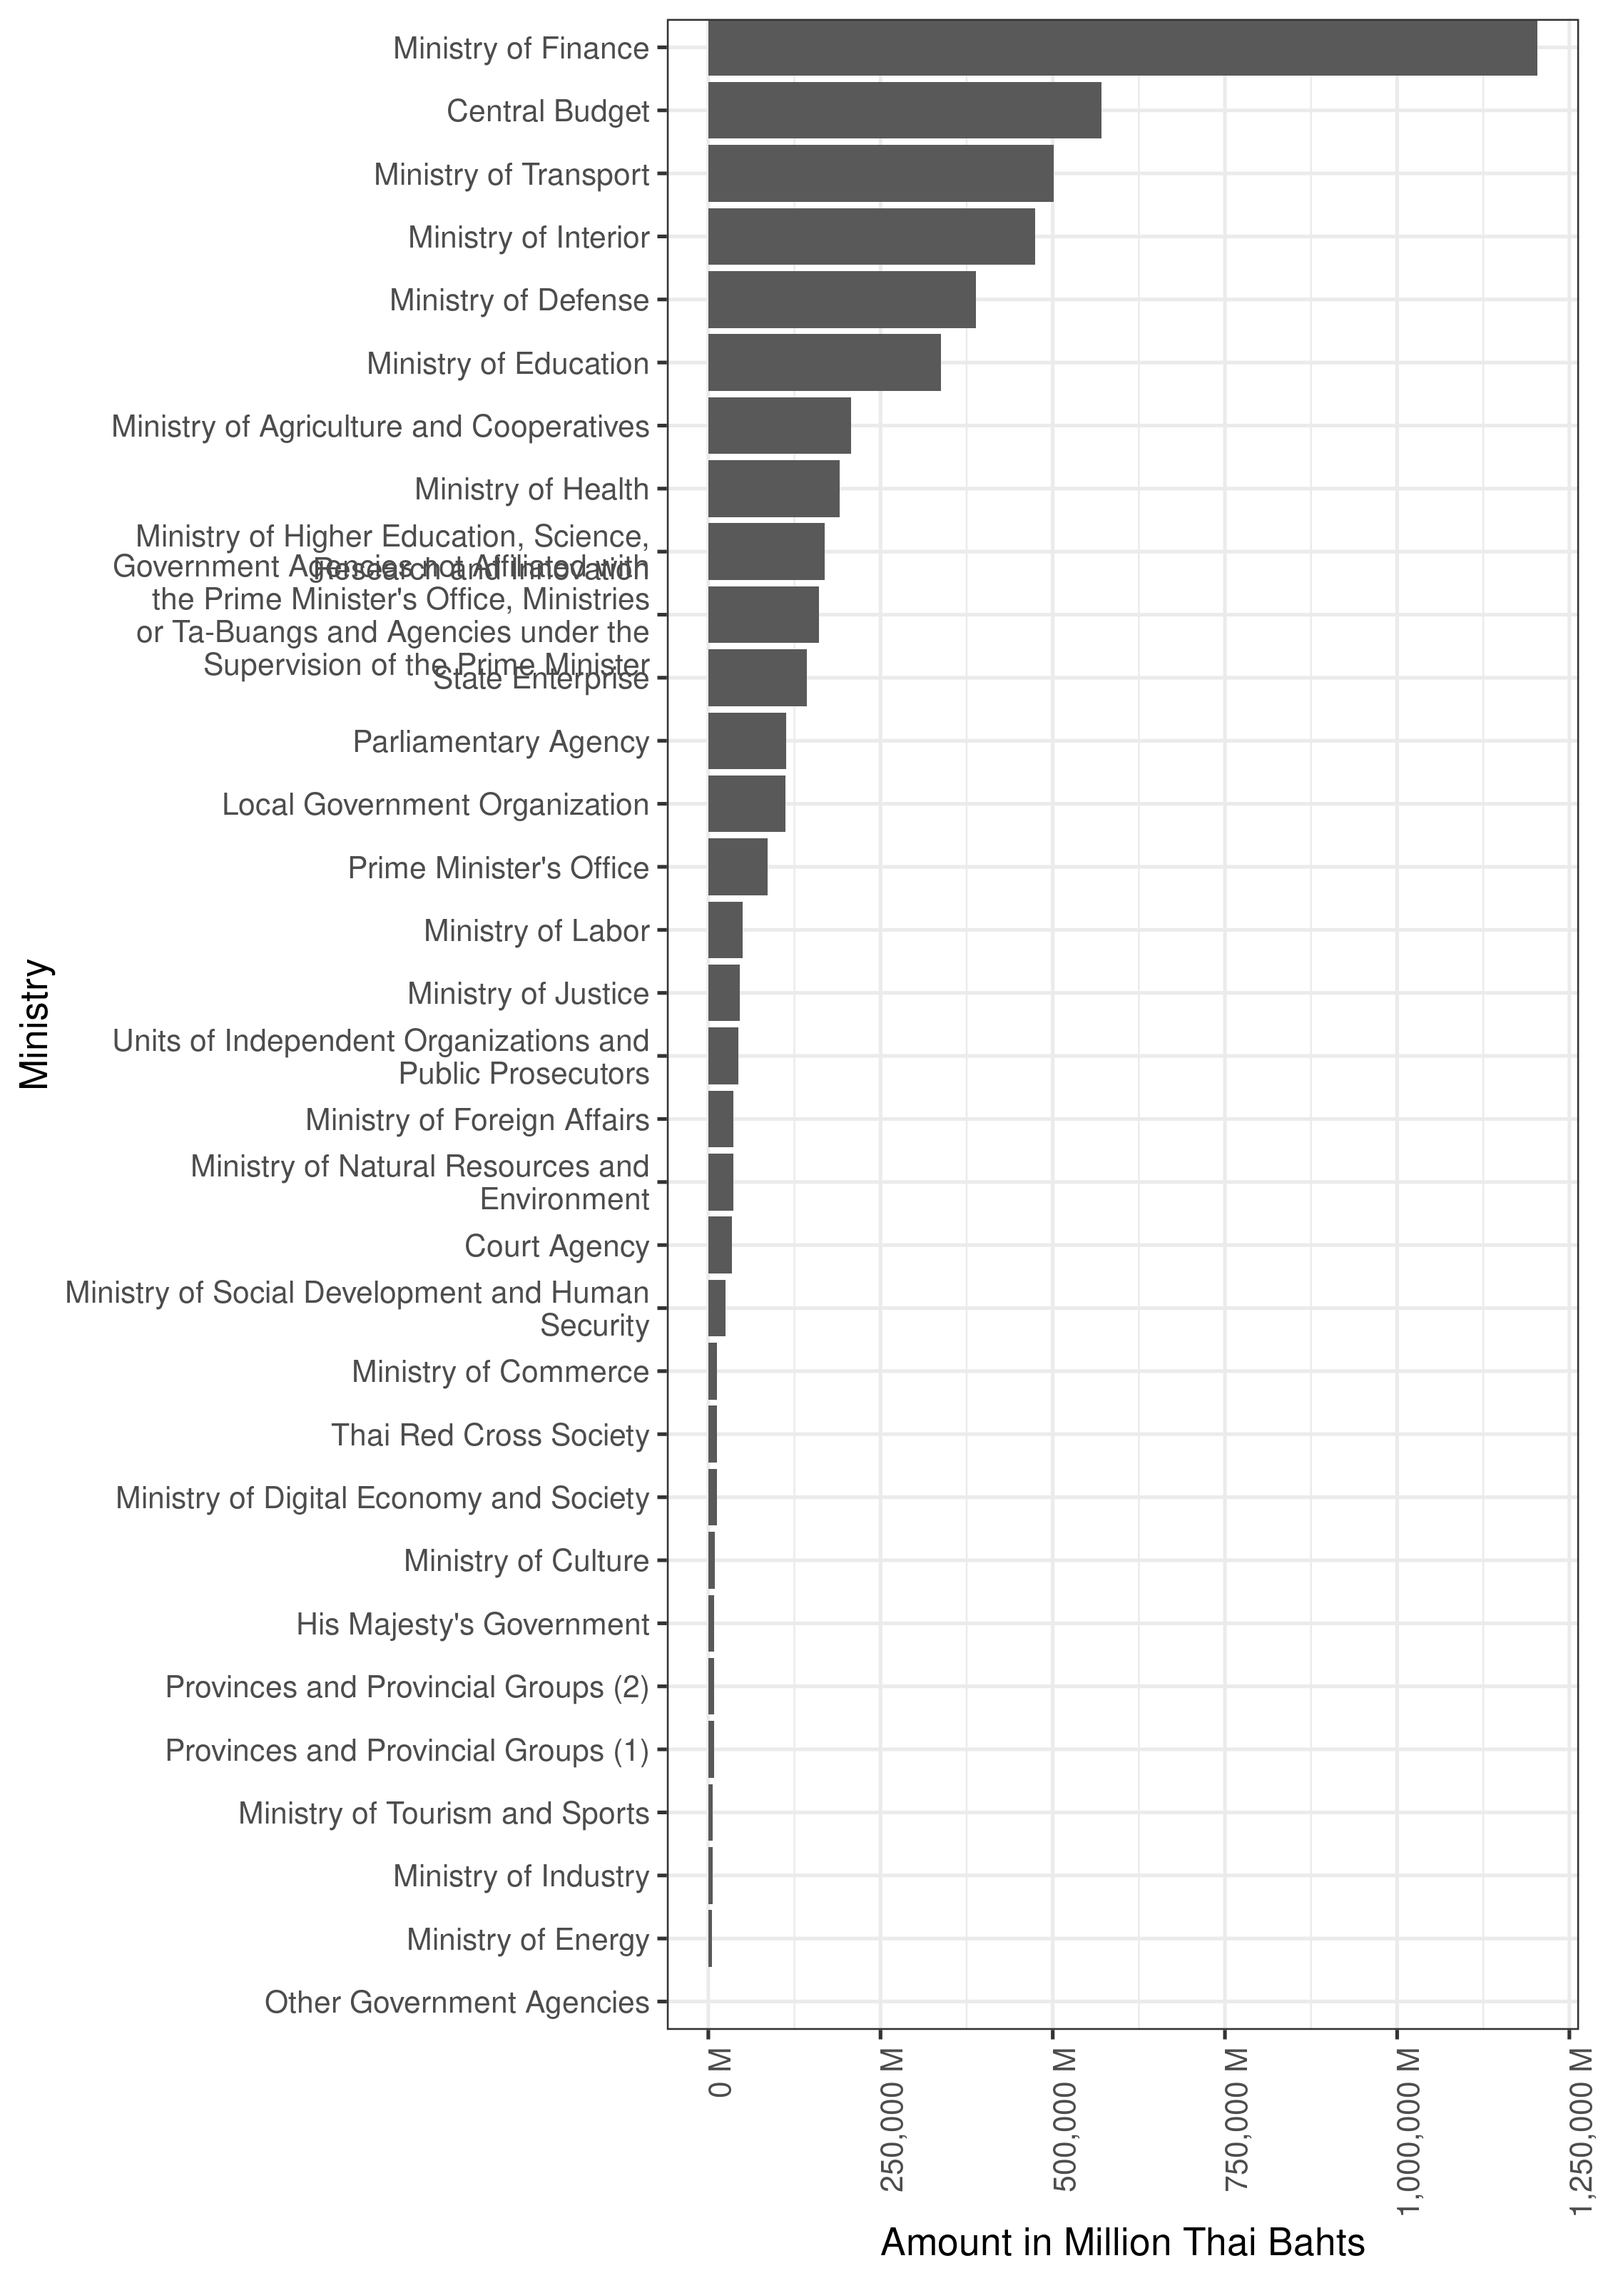
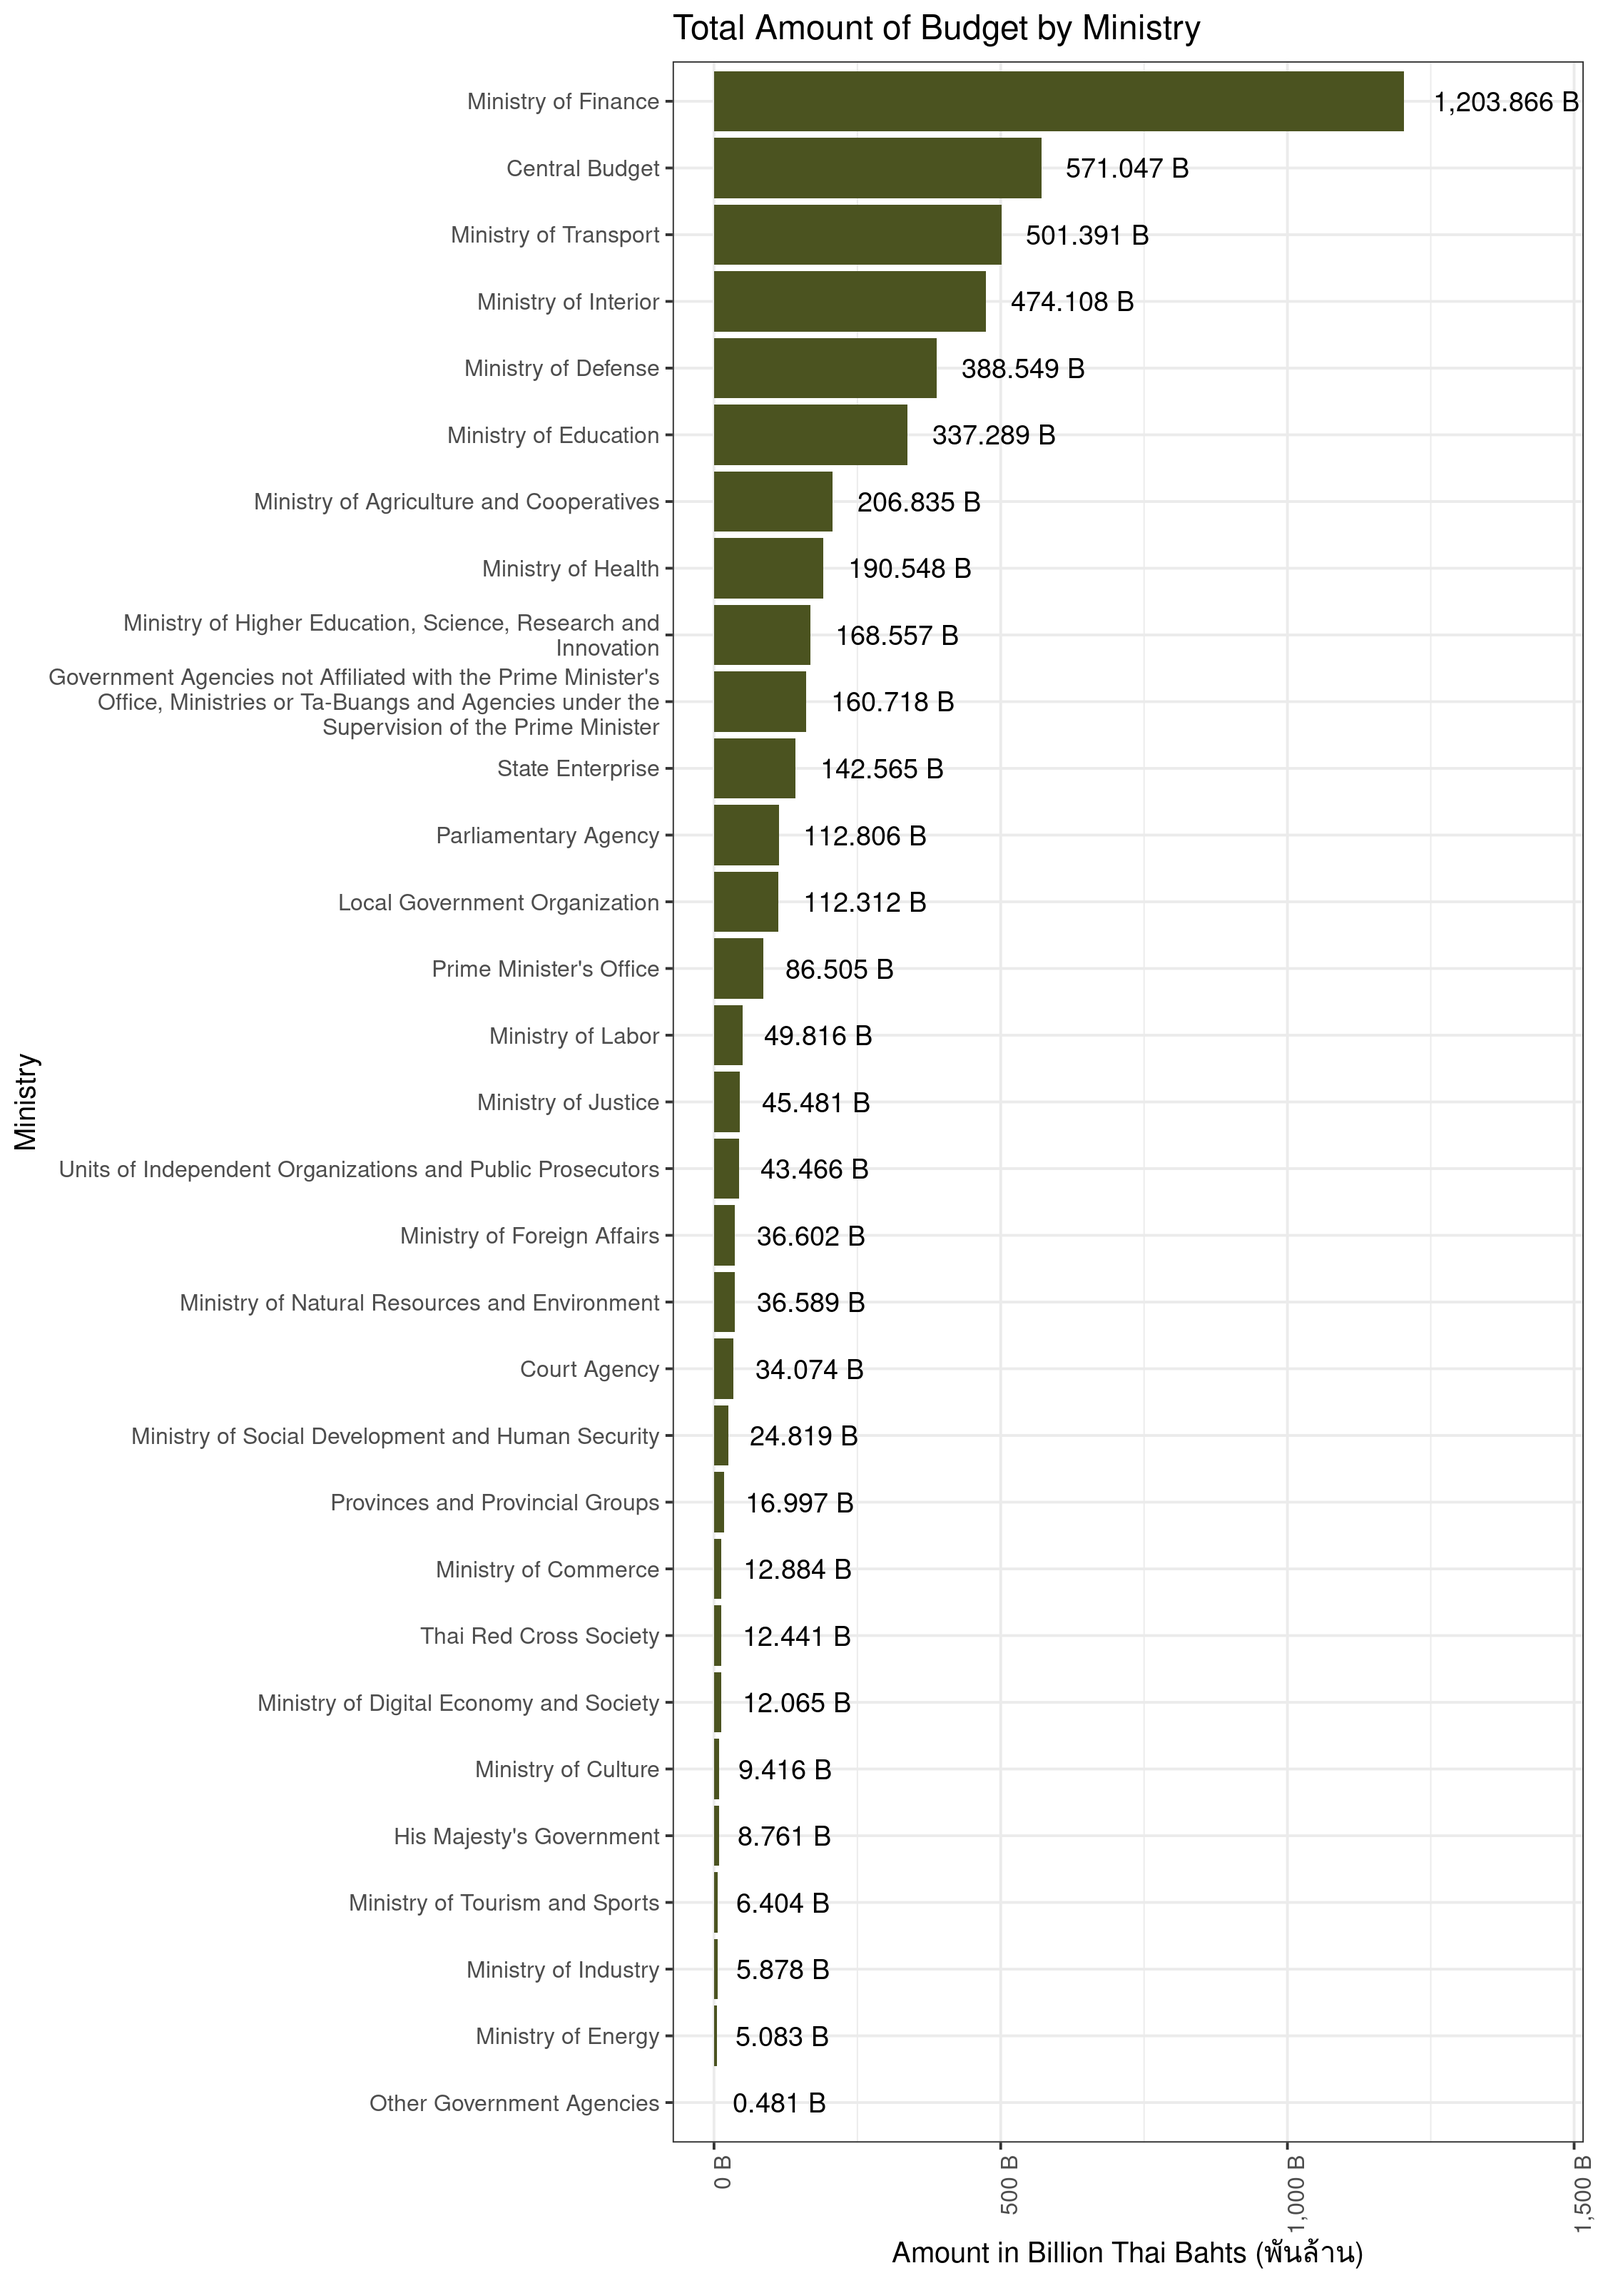
Clean up

diff --git a/README.md b/README.md
@@ -1,22 +1,7 @@
 ThaiGov’s 2022 Budget
 ================
 
-<blockquote class="twitter-tweet">
-<p lang="th" dir="ltr">
-\[ Excel
-<a href="https://twitter.com/hashtag/%E0%B8%87%E0%B8%9A65?src=hash&amp;ref_src=twsrc%5Etfw">\#งบ65</a>
-สำเร็จแล้ว! ใช้ไปเลยชั่วลูกชั่วหลาน \]<br><br>ดาวน์โหลด:
-<a href="https://t.co/PuhflF8DEF">https://t.co/PuhflF8DEF</a><br><br>เราจะทำตามสัญญา
-ขอเวลาอีกไม่นาน …<br><br>หลัง งปม. วาระ 1 ผ่านสภา
-พวกเราเคยให้สัญญากับทุกท่านไว้ว่า จะรวมพลังสาย dev เพื่อแปลงงบ pdf สู่
-machine-readable แบบทำครั้งเดียว ใช้ได้ชั่วลูกชั่วหลาน
-<a href="https://t.co/b0pWMF3jDc">pic.twitter.com/b0pWMF3jDc</a>
-</p>
-— ณัฐพงษ์ เรืองปัญญาวุฒิ (เท้ง) (@teng\_mfp)
-<a href="https://twitter.com/teng_mfp/status/1417872910383865859?ref_src=twsrc%5Etfw">July
-21, 2021</a>
-</blockquote>
-<script async src="https://platform.twitter.com/widgets.js" charset="utf-8"></script>
+![<https://img.shields.io/badge/open%20data-thailand-blue>](https://img.shields.io/badge/open%20data-thailand-blue)
 
 This repository contains R code that uses [Google Translation
 API](https://cloud.google.com/translate) to translate [2022 Thai
@@ -33,6 +18,10 @@ free Google monthly quota. If you are interested to contribute, please
 submit a pull request with other columns translated to English. Feel
 free to use the R code below. :)
 
+![](README_files/figure-gfm/total-budget-by-ministry-1.png)<!-- -->
+
+# Targets
+
 ``` r
 options(tidyverse.quiet = TRUE)
 tar_option_set(packages = c("dplyr", "ggplot2", "googlesheets4", "tidyr", "skimr", "magrittr", "googleLanguageR", "data.table"))
@@ -44,8 +33,6 @@ merge_translation <- function(x, translation, column) {
 }
 #> Established _targets.R and _targets_r/globals/unnamed-chunk-3.R.
 ```
-
-# Targets
 
 ``` r
 tar_target(budget_raw, {
@@ -631,34 +618,6 @@ NA
 </tr>
 </tbody>
 </table>
-
-``` r
-my_theme <- 
-  theme_bw(base_size = 12) +
-  theme(axis.text.x = element_text(angle = 90, hjust = 1))
-  # labs(x = "Amount in Million Thai Bahts")
-```
-
-``` r
-tar_read(budget_en) %>%
-  mutate(ministry_en = ifelse(grepl("Ministry of Higher Education", ministry_en) == TRUE, 
-                               "Ministry of Higher Education, Science, Research and Innovation",
-                               ministry_en)) %>%
-  group_by(ministry_en) %>%
-  summarise(amount = sum(amount, na.rm = TRUE)) %>%
-  ggplot(data = ., aes(
-    x = amount,
-    y = forcats::fct_reorder(stringr::str_wrap(ministry_en, 40), amount)
-  )) +
-  geom_col() +
-  scale_x_continuous(labels = unit_format(unit = "M", scale = 1e-6, big.mark = ",")) +
-  scale_y_discrete(expand = c(0, 0)) +
-  theme_bw(base_size = 12) +
-  theme(axis.text.x = element_text(angle = 90, hjust = 1)) +
-  labs(x = "Amount in Million Thai Bahts", y = "Ministry")
-```
-
-![](README_files/figure-gfm/total-budget-by-ministry-1.png)<!-- -->
 
 ``` r
 tar_read(budget) %>%
